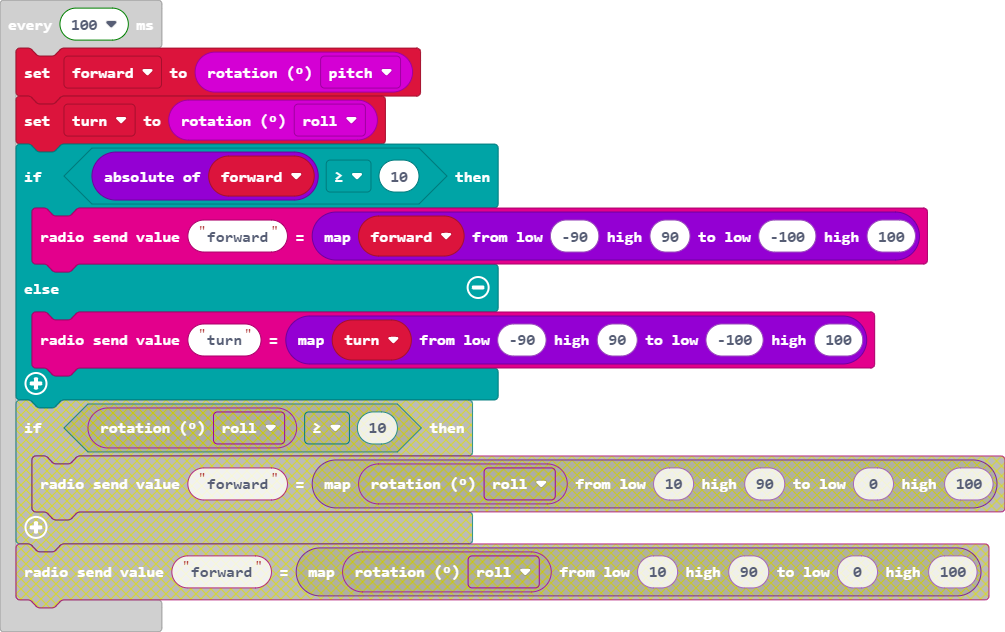
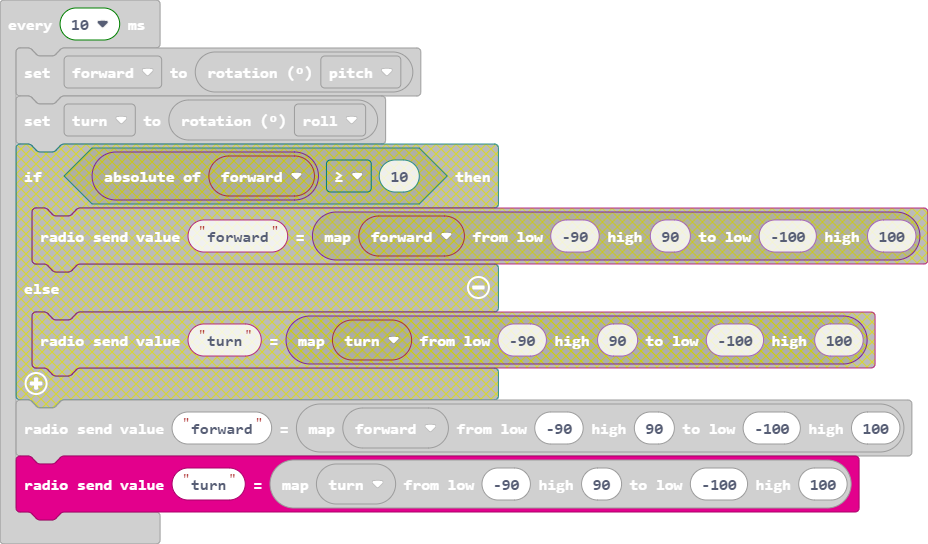
Update main.blocks, main.ts

diff --git a/main.ts b/main.ts
@@ -7,12 +7,9 @@ basic.showLeds(`
     # # # # #
     . # . # .
     `)
-loops.everyInterval(100, function () {
+loops.everyInterval(10, function () {
     forward = input.rotation(Rotation.Pitch)
     turn = input.rotation(Rotation.Roll)
-    if (Math.abs(forward) >= 10) {
-        radio.sendValue("forward", Math.map(forward, -90, 90, -100, 100))
-    } else {
-        radio.sendValue("turn", Math.map(turn, -90, 90, -100, 100))
-    }
+    radio.sendValue("forward", Math.map(forward, -90, 90, -100, 100))
+    radio.sendValue("turn", Math.map(turn, -90, 90, -100, 100))
 })
